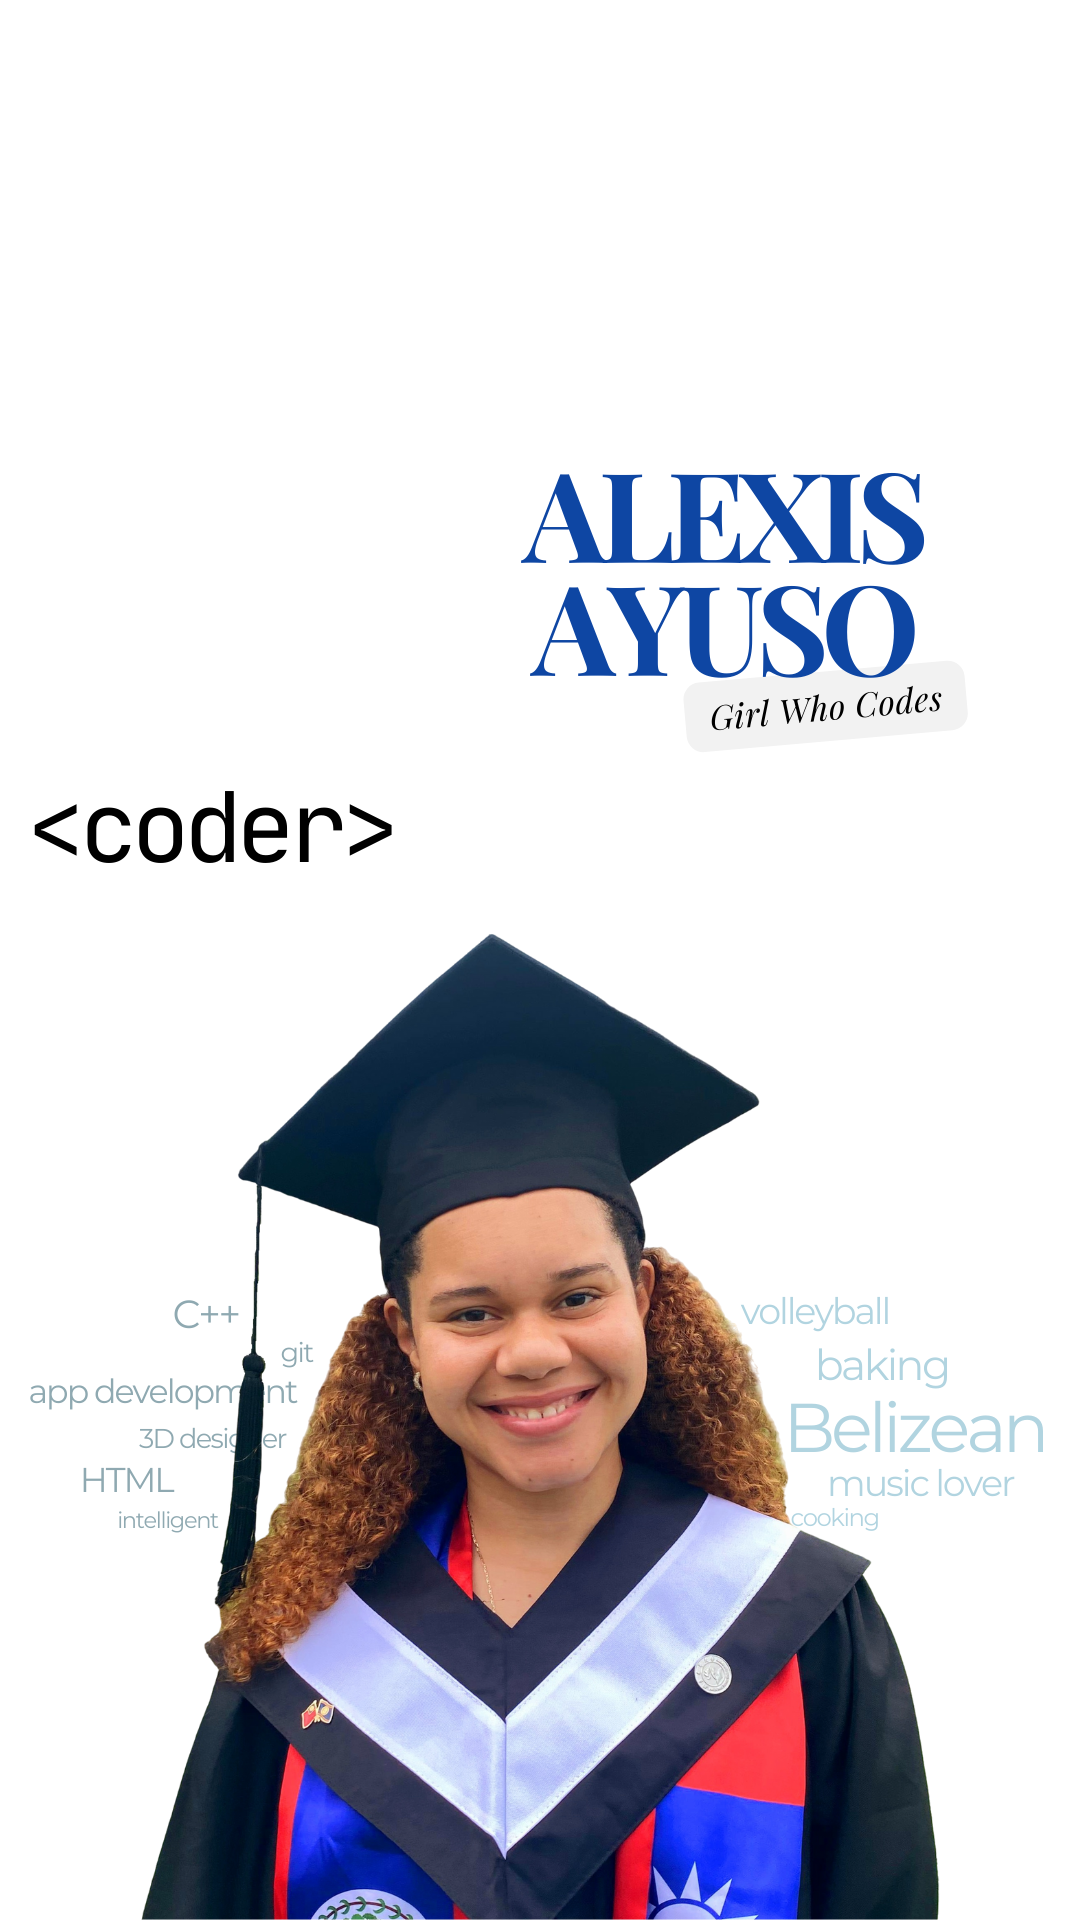
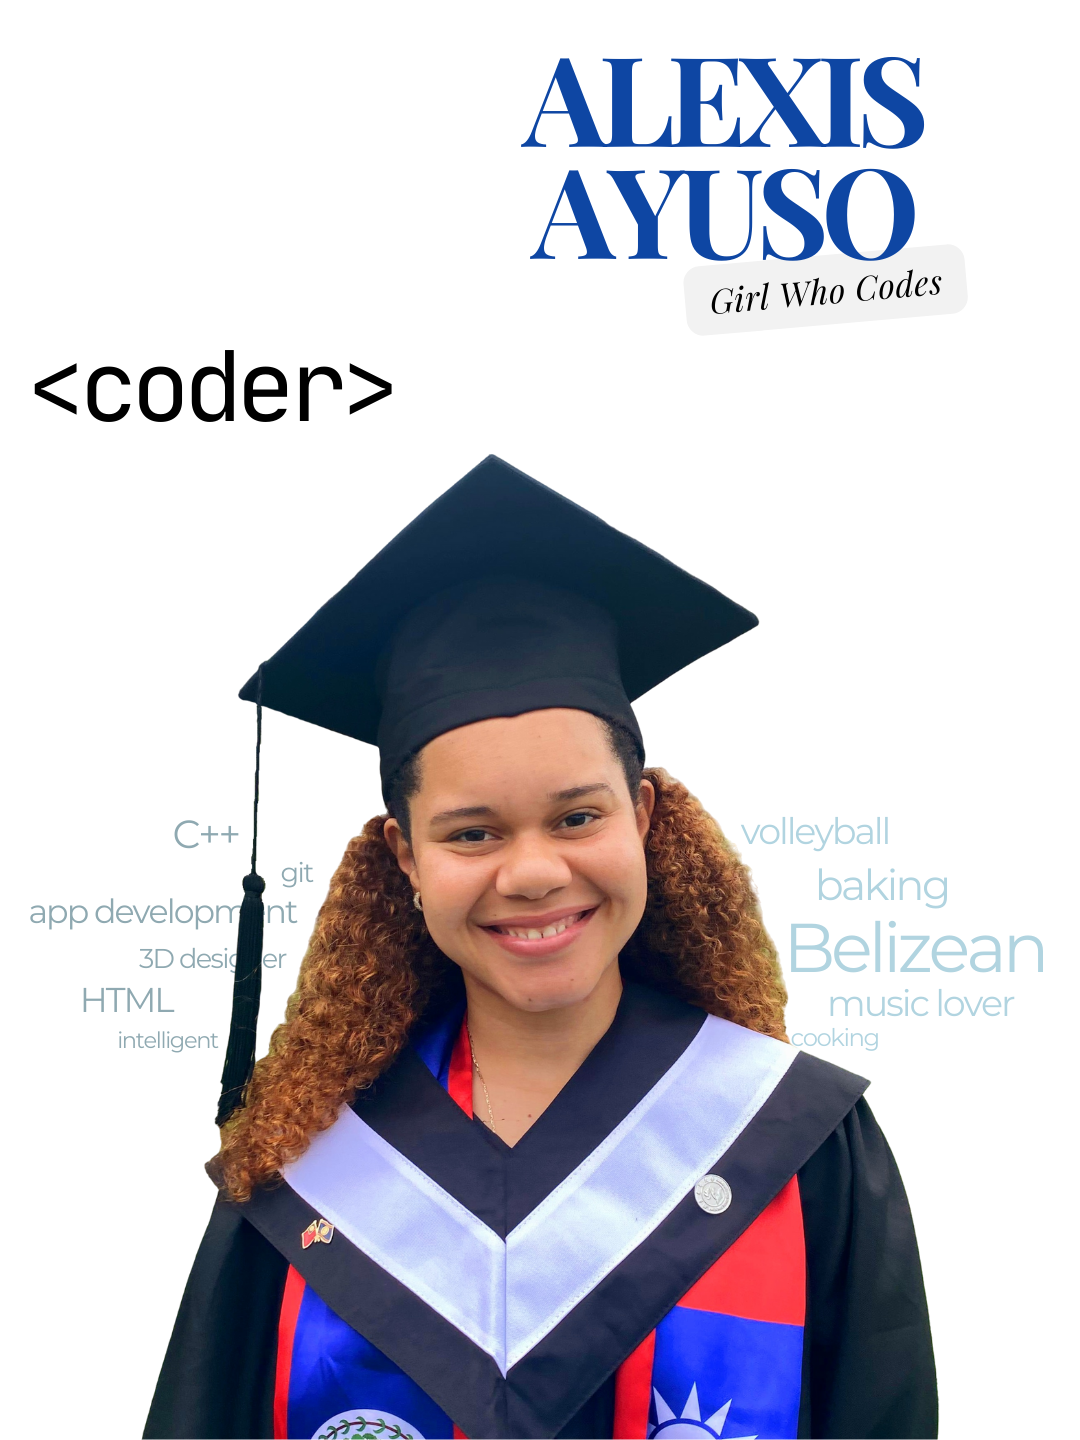
fix phone home page and responsiveness

diff --git a/html/sun-moon-lake.html b/html/sun-moon-lake.html
@@ -75,9 +75,9 @@
     <!-- Introduction: Sun Moon Lake -->
     <div class="row page-intro sub-page">
         <div class="intro-txt-col">
-            <h1 class="page-title sub-page">Sun Moon Lake</h1>
+            <h1 class="page-title sub-page">Sun Moon Lake (3D Terrain)</h1>
             <p class="caption">3D Unity Terrain</p>
-            <div class="project-skills"><span>Unity</span><span>SketchUp's 3D Warehouse</span></div>
+            <div class="project-skills"><span>Unity</span><span>SketchUp</span></div>
             <div class="repo-button"><button class="btn"><a href="https://github.com/GirlWhoCodes14/SunMoonLake3D" target="_blank">Repository<i class="fa-brands fa-github"></i></a></button></div>
         </div>
         <div class="intro-img-col">
@@ -89,6 +89,7 @@
         <div class="paragraph">
             <h1 class="section-header">About</h1>
             <p>I constructed a 3D terrain in Unity of the 10KM area around Sun Moon Lake. Sun Moon Lake is in the foothills of Taiwan's Central Mountain Range. It is located in Yuchi, Nantou County, Taiwan. The scene includes some other surrounding bodies of water, such as T'ou-she Reservoir (頭社水庫), Mingtan Reservoir (明潭水庫) and Ming Hu.</p>
+            <p>A height map was used to automatically generate the elevation of the area.</p>
             <p>The terrain tool box was imported into the project to get advanced terrain features, which I got the terrain layers from. The water, trees, character, and camera come from the Standard Asset package. The skybox came from 'AllSky Free' by rpgwhitelock. The grass came from 'Grass Flower Pack Free' by Alp. The 'VegetationSpawner' was used to disperse the trees, grass, and flowers. The boats came from 'Boats - PolyPack' by Alstra Infinite. Directional wind was added using Windzone.</p>
             <p>Structures from SketchUp's 3D Warehouse were used in the scene, such as a hotel, temple, pagoda, and village, to show where buildings like those are in the area.</p>
         </div>

diff --git a/css/common/page-intro.css b/css/common/page-intro.css
@@ -104,6 +104,24 @@
 }
 
 @media only screen and (max-width: 600px) {
+    .page-intro {
+        padding: 4% 5%;
+    }
+
+    .page-intro.sub-page {
+        padding: 5%;
+        gap: 20px;
+    }
+    .intro-img-col
+    {
+        width: auto;
+        height: auto;
+    }
+
+    .intro-img-col img, .intro-img-col iframe {
+        min-width: 150px;
+        width: 100%;
+    }
 
     /*
     .intro-txt-col .caption, .intro-txt-col p {

diff --git a/portfolio.html b/portfolio.html
@@ -152,7 +152,7 @@
           <a href="html/sun-moon-lake.html">
             <img src="images/projects/sun_moon_lake.png" alt="Sun Moon Lake (3D Terrain)">
             <div class="preview-detail">
-              <p>Sun Moon Lake</p>
+              <p>Sun Moon Lake (3D Terrain)</p>
               <p><span>3D Unity Terrain</span></p>
             </div>
           </a>

diff --git a/css/common/style.css b/css/common/style.css
@@ -119,7 +119,7 @@ p {
   padding: 10px 40px;
   font-size: 18px;
   color: white;
-  background-color: var(--dropdown-nav-bgColor);
+  background-color: #0d1a49;
   border: none;
   box-shadow: 0 4px 8px 0 rgba(0, 0, 0, 0.2), 0 6px 20px 0 rgba(0, 0, 0, 0.19);
 

diff --git a/css/home.css b/css/home.css
@@ -114,12 +114,12 @@ main img {
 }
 
 .media-container .portrait {
-    width: 30rem;
+    width: 20rem;
     aspect-ratio: 2/3;
 }
 
 .media-container .landscape {
-    height: 35rem;
+    height: 25rem;
     width: auto;
     aspect-ratio: 3/2;
 }

diff --git a/css/projects.css b/css/projects.css
@@ -92,3 +92,16 @@
     color: white;
     margin-left: 10px;
 }
+
+
+
+
+@media only screen and (max-width : 480px) {
+    .paragraph {
+        margin: 20px 0;
+    }
+
+    .lists {
+        padding-left: 15px;
+    }
+}
